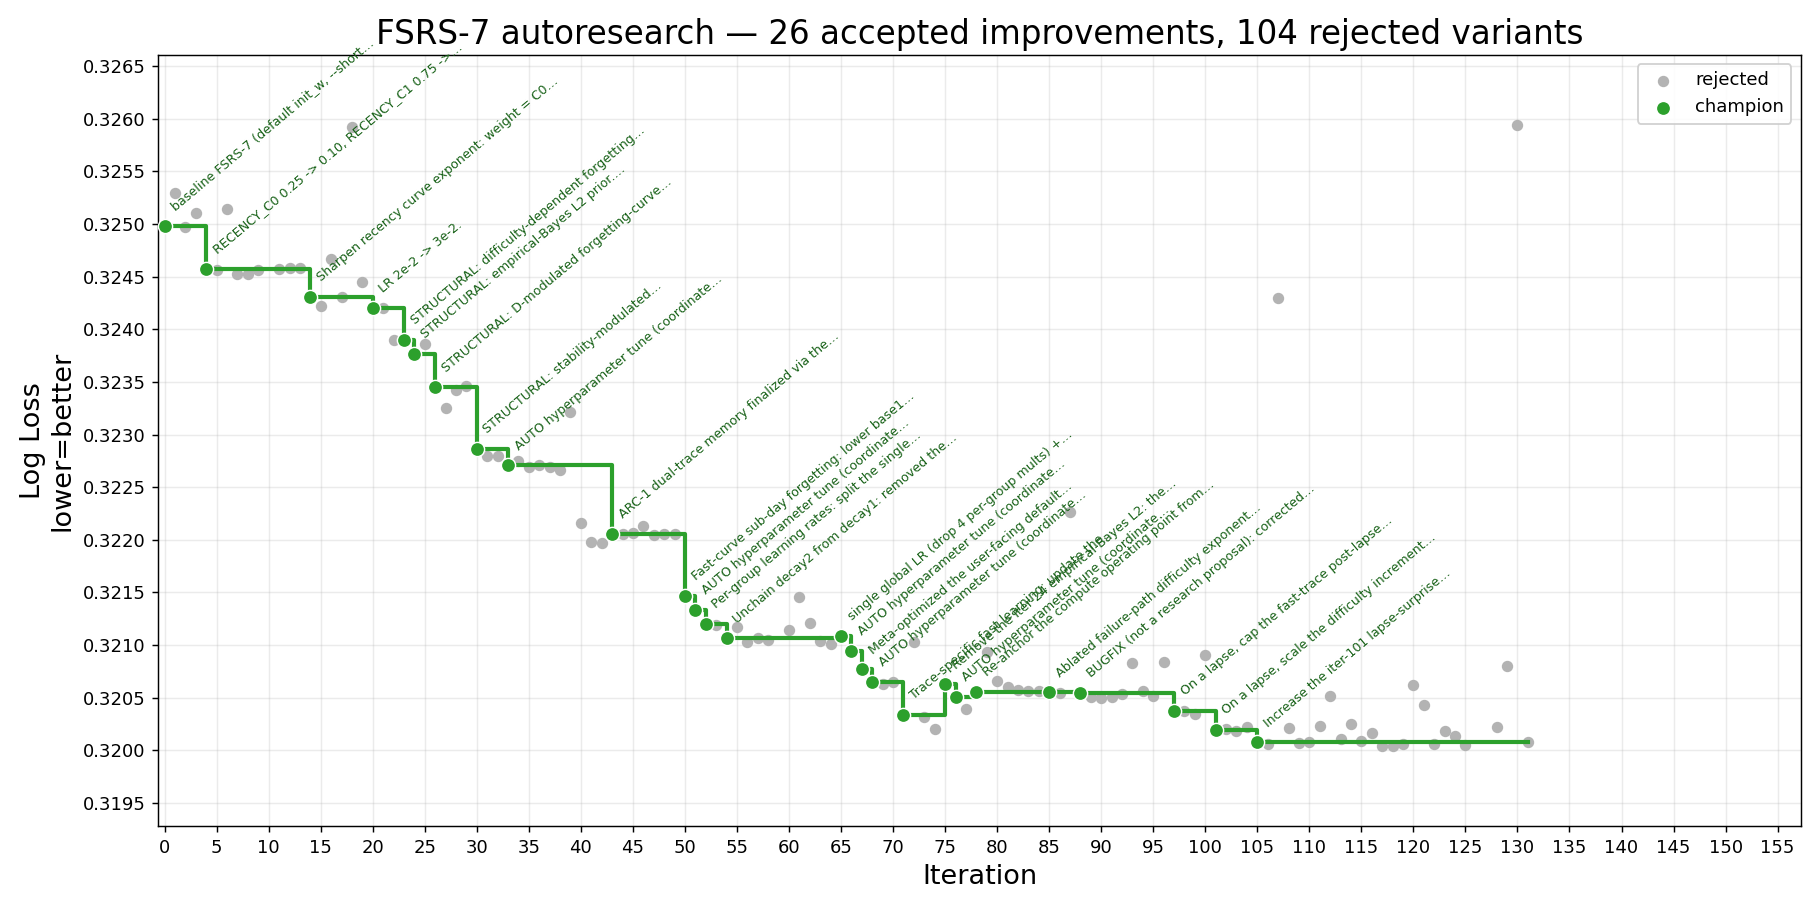
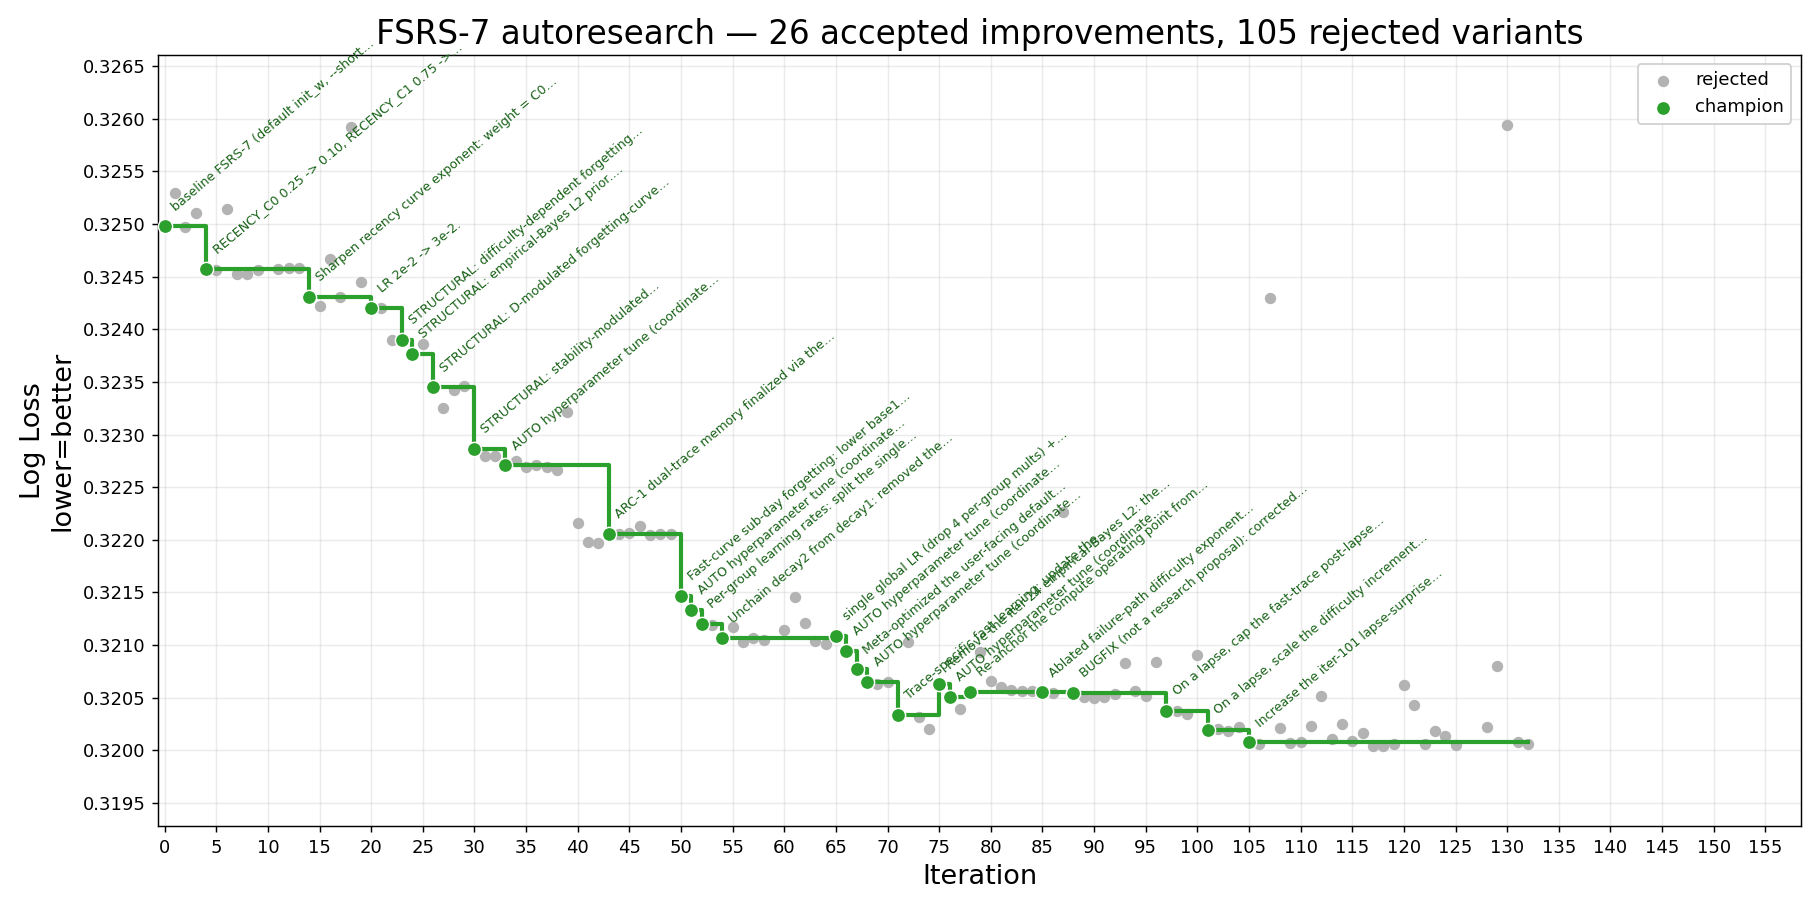
iter 132 (rejected): success-side surprise on D-update -- real but sub-threshold +1.39e-5 (~7x under floor); lapse side already captured the bulk, success surprise is sparse (most recalls high-R)

diff --git a/result/history.md b/result/history.md
@@ -1,6 +1,6 @@
 # FSRS-7 autoresearch — iteration history
 
-_131 record(s). Generated from `history.jsonl` — do not edit by hand._
+_132 record(s). Generated from `history.jsonl` — do not edit by hand._
 
 | # | Time (UTC) | Thresh. | LL before | LL after | Δ LL | Cx before | Cx after | Δ Cx % | Status | Summary |
 |--:|---|---:|---:|---:|---:|---:|---:|---:|---|---|
@@ -135,3 +135,4 @@ _131 record(s). Generated from `history.jsonl` — do not edit by hand._
 | 129 | 2026-06-04T10:39:39 | 0.0001 | 0.32008 | 0.32080 | -0.00072 | 16,930 | 16,930 | +0.00% | rejected | Add a small entropy-penalty (confidence-sharpening) term to BCE: dloss_dp -= 0.05*logit(p). |
 | 130 | 2026-06-04T11:00:14 | 0.0001 | 0.32008 | 0.32594 | -0.00587 | 16,930 | 16,903 | -0.16% | rejected | Curve-family test: replace the slow forgetting-curve power-law with an exponential exp(-decay2_mag*t/s); base2 orphaned. |
 | 131 | 2026-06-04T11:49:32 | 0.0001 | 0.32008 | 0.32008 | -0.00000 | 16,930 | 16,930 | +0.00% | rejected | Lower the iter-97 post-lapse fast-reset cap fraction from 0.8 to 0.7 (line-search between 0.8 and iter-119 0.6). |
+| 132 | 2026-06-04T12:21:22 | 0.0001 | 0.32008 | 0.32006 | +0.00001 | 16,930 | 16,943 | +0.08% | rejected | Add a success-side surprise term to the difficulty update: delta_d -= 0.5*(1-retention) for recalls (rating>1). |
